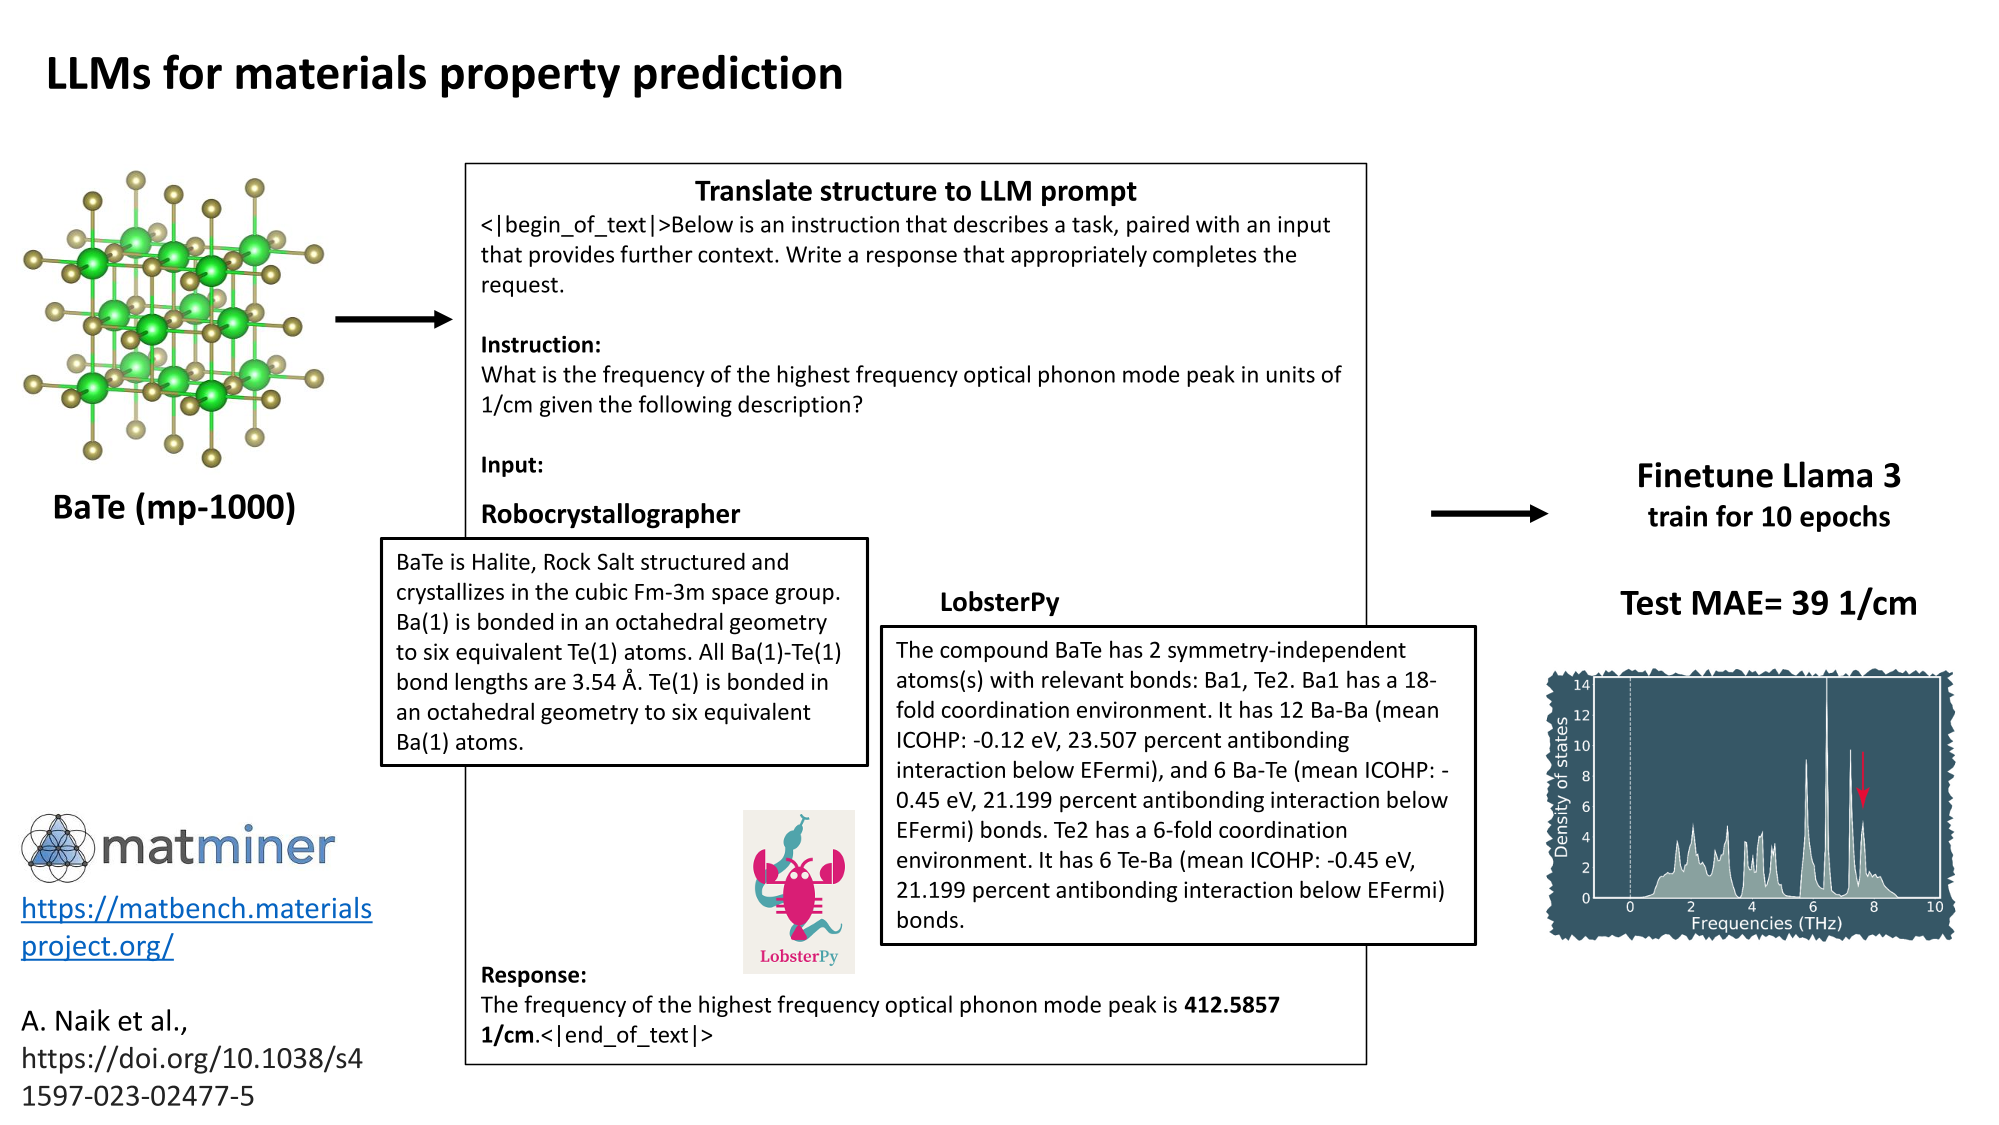
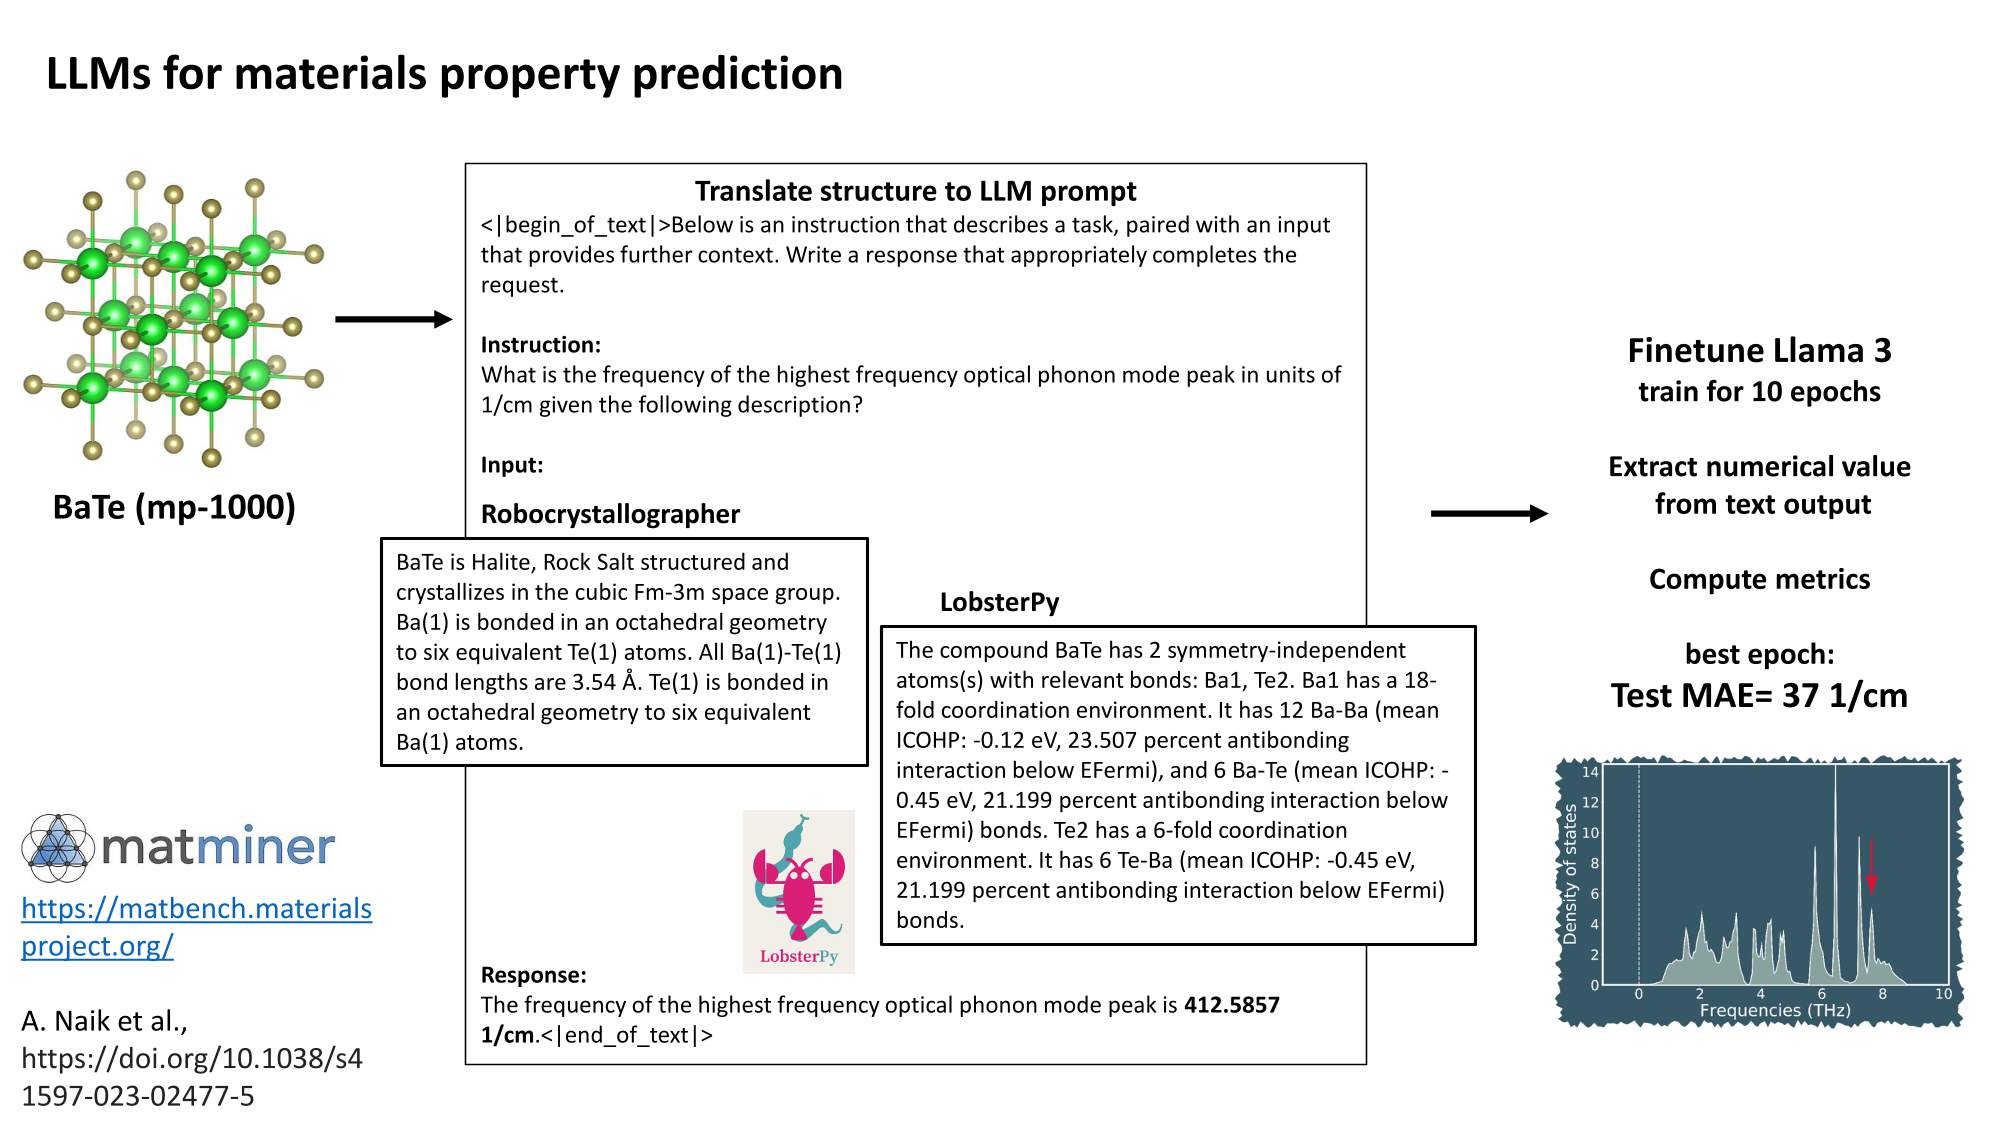
Updated README.md

Changed region(s): [[0.7754, 0.4978, 0.9925, 0.9333], [0.8064, 0.28, 0.9305, 0.3733], [0.8064, 0.4044, 0.9615, 0.4667]]

diff --git a/README.md b/README.md
@@ -3,3 +3,24 @@ This repo contains code and data of our contribution to the 2024 LLM Hackathon, 
 
 ![image](Presenting/llm_for_lastphdospeak_prediction-1.png)
 
+We generated textual descriptions of the 1264 structures of the [MatBench phonon dataset](https://matbench.materialsproject.org/Leaderboards%20Per-Task/matbench_v0.1_matbench_phonons/).
+These descriptions were generated both with [Robocrystallographer](https://hackingmaterials.lbl.gov/robocrystallographer/index.html),
+describing structural features as structure type, coordination environments etc. and [LobsterPy](https://jageo.github.io/LobsterPy/),
+describing covalent bonding features of the structure like ICOHP values. The bonding database was
+generated by A. Naik et al. and is publicly [available](https://doi.org/10.1038/s41597-023-02477-5).
+
+These textual descriptions of 1264 structures were then transformed into LLM prompts (see schema) by 
+defining 
+- **an Instruction**
+  - 'What is the frequency of the highest frequency optical phonon mode peak in 
+  - units of 1/cm given the following description?'
+- **an Input**
+  - LobsterPy + Robocrys description of structure
+- **an Output**
+  - 'The frequency of the highest frequency optical phonon mode peak is 350.5858 1/cm.'
+
+
+We finetuned a Llama 3 model (one train/test/val split: 0.64/0.2/0.16) and trained it for 10 epochs
+with a validation step after each epoch. The textual output was converted back into
+numerical frequency values for computation of MAEs and RMSEs.
+The best epoch yields a test MAE of 37 1/cm.
